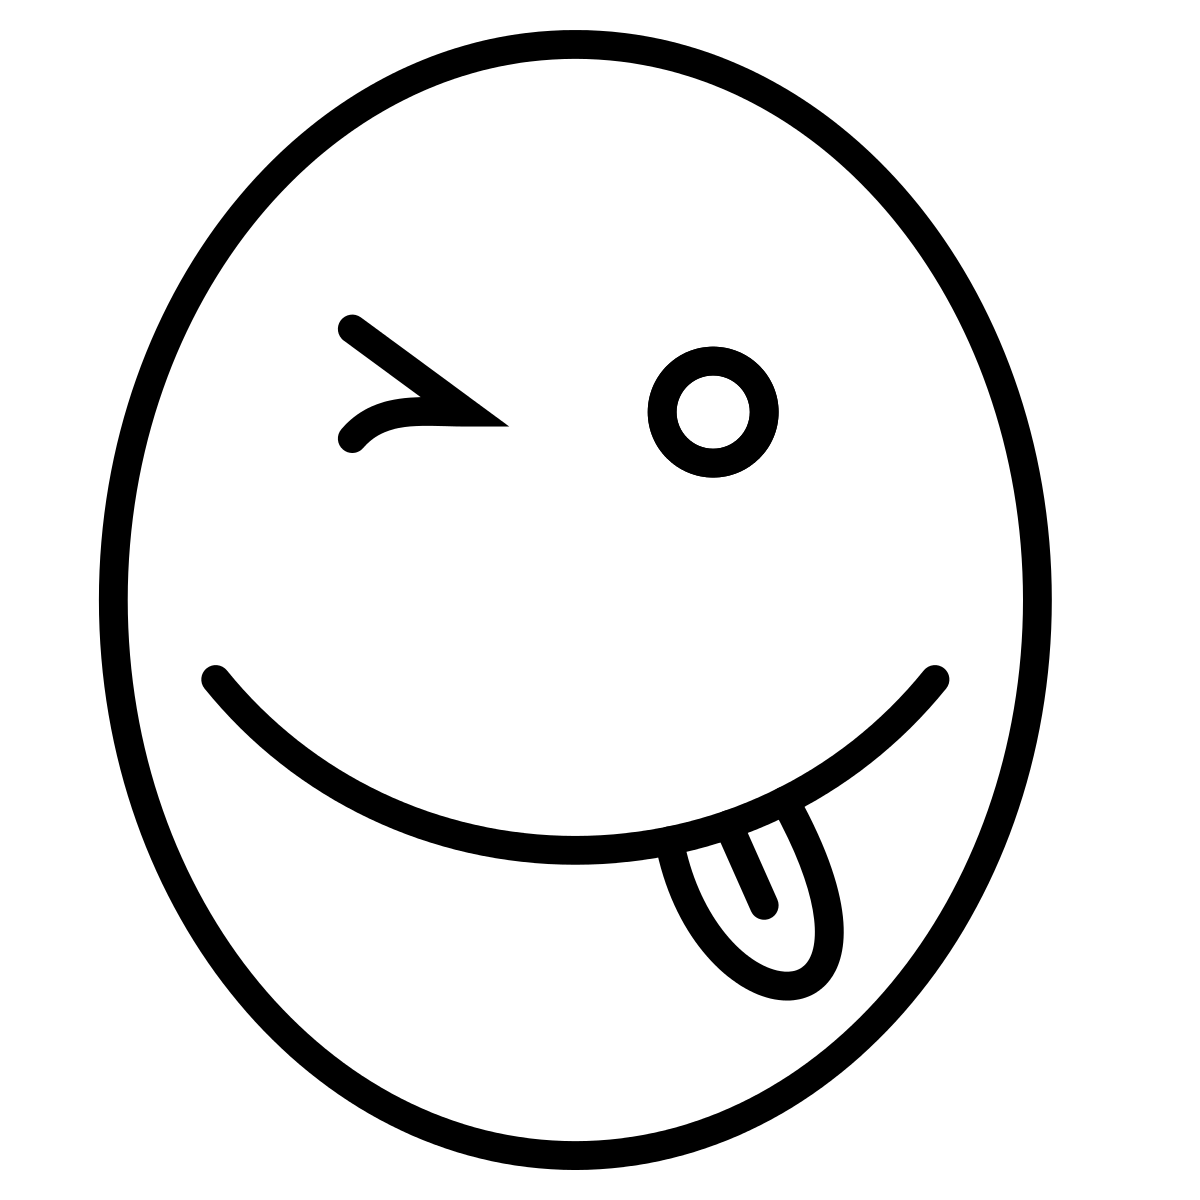
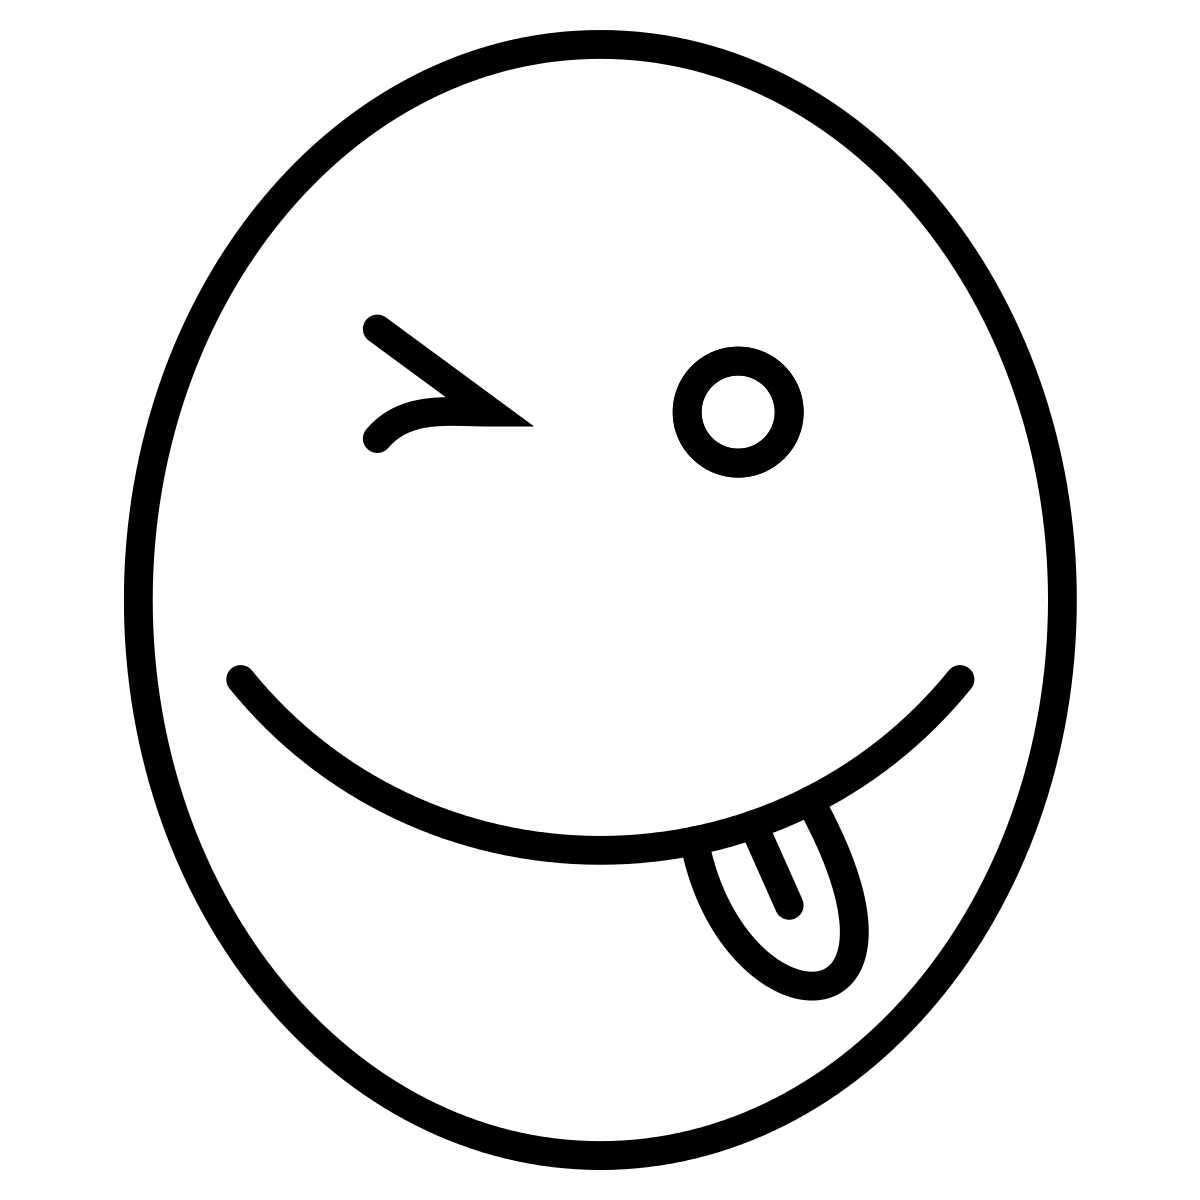
move wink pic over

diff --git a/public/javascript/login.js b/public/javascript/login.js
@@ -18,7 +18,7 @@ $(document).ready(function() {
   //   });
   // });
  $('#facebook_button').hover(function() {
-   $('#landing-body').css('background-image', 'url(../images/tongue_icon.png)')
+   $('#landing-body').css('background-image', 'url(../images/tongue_icon_centered.png)')
  }, function() {
    $('#landing-body').css('background-image', 'url(../images/wink_icon.png)')
  });
